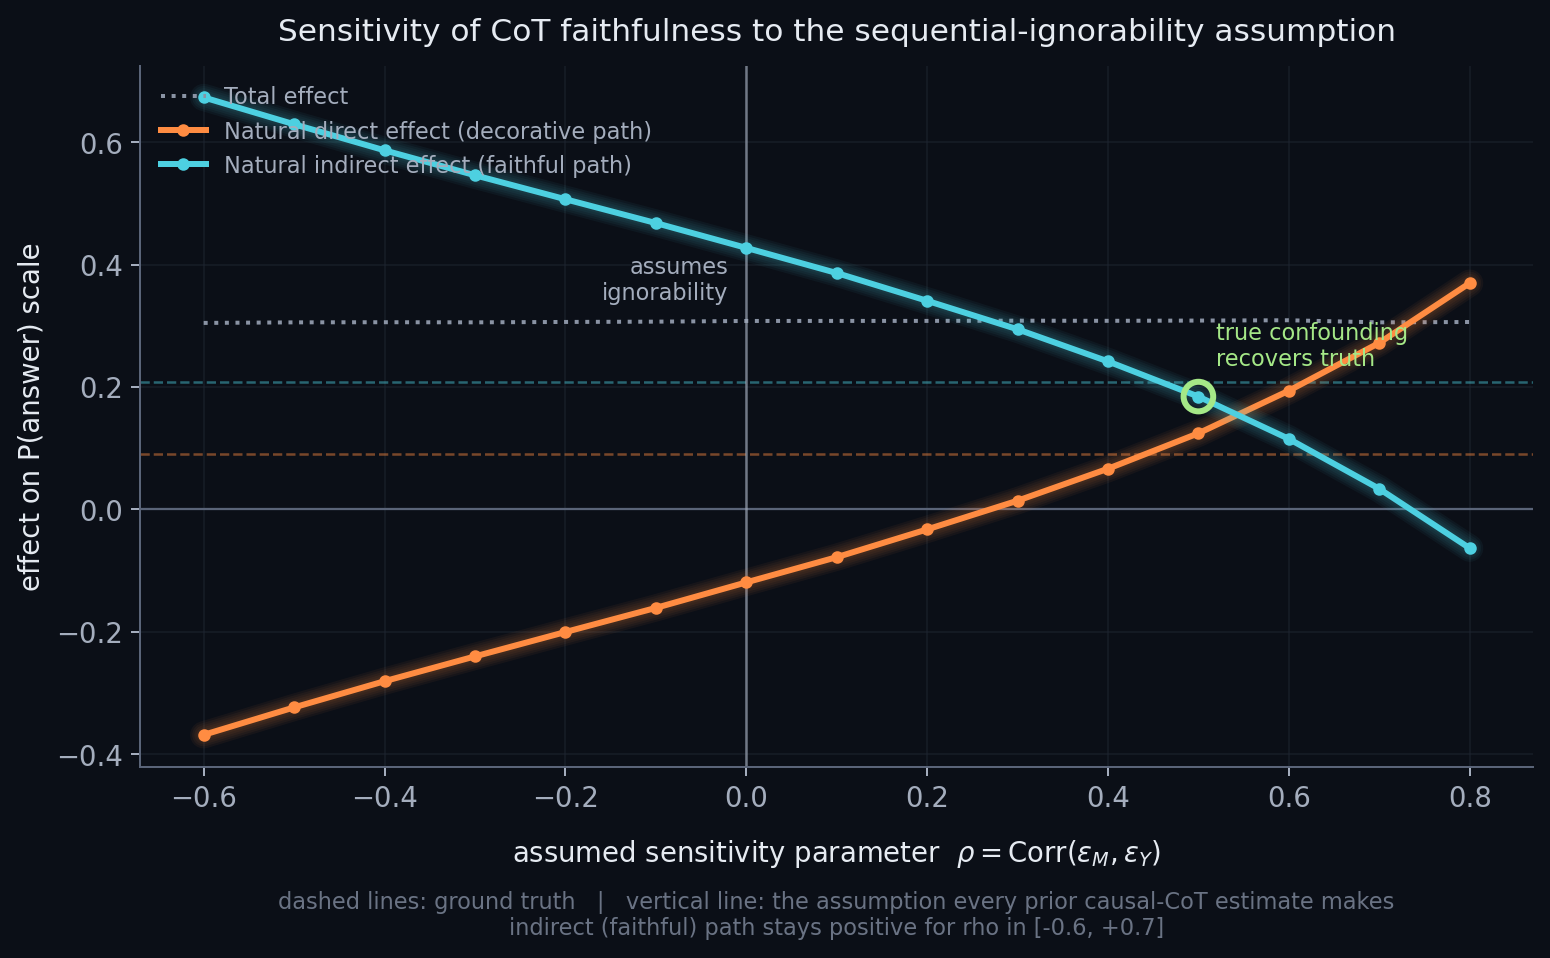
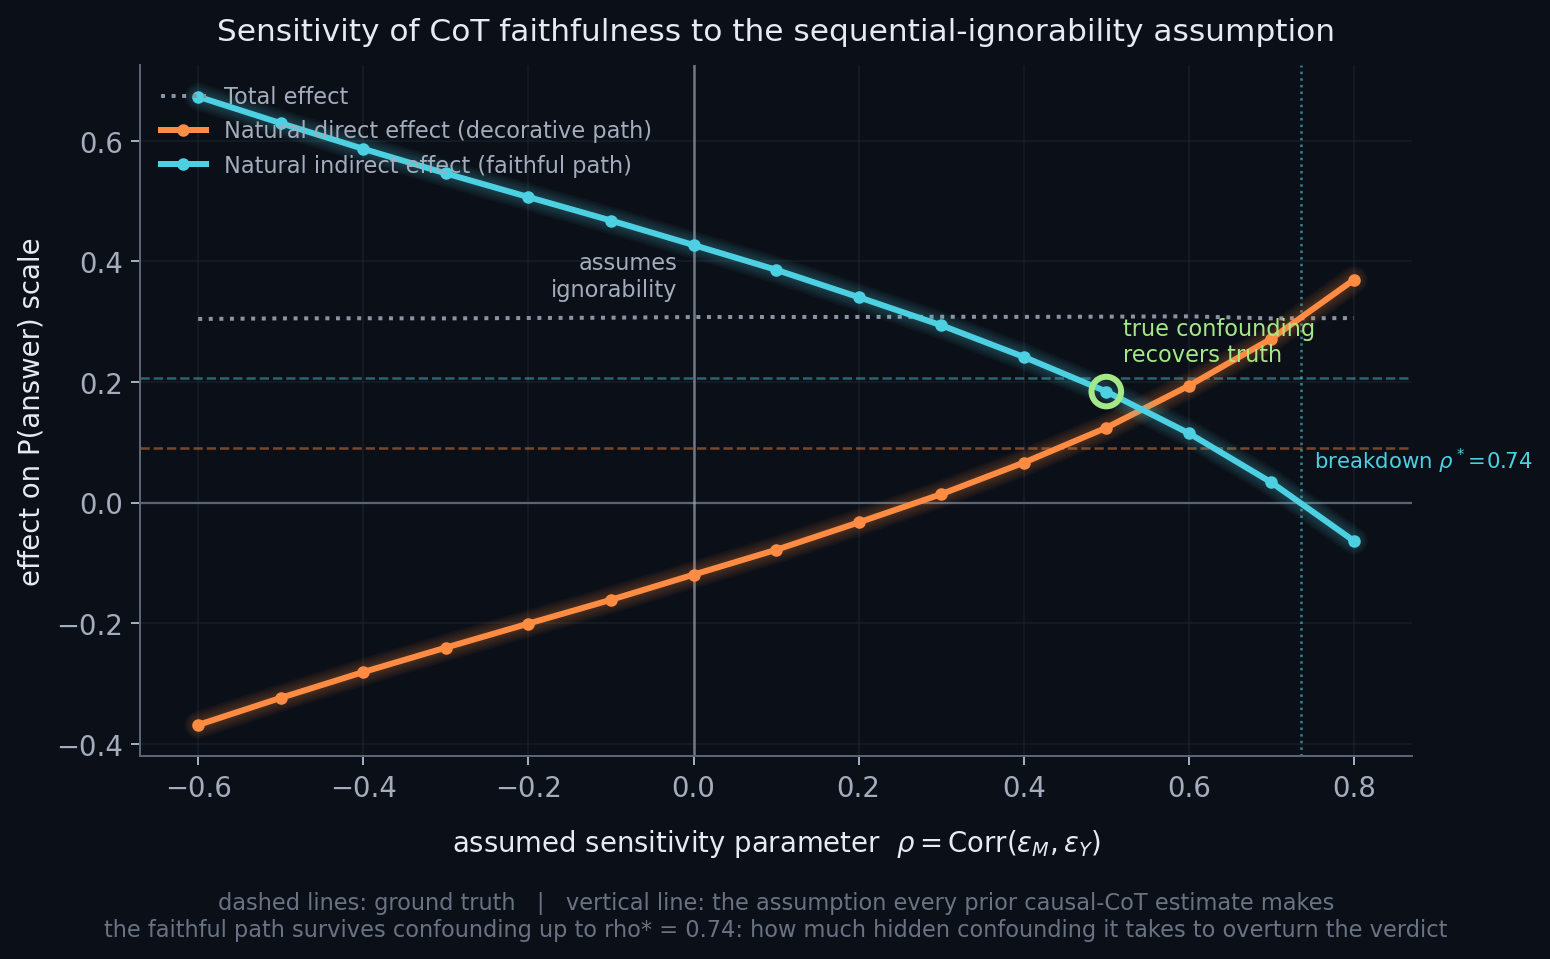
feat(sensitivity): breakdown-frontier rho* (E-value for mediation)
Add breakdown_frontier() + BreakdownFrontier: the smallest residual M-Y
confounding |rho| that flips a natural-effect's sign, found by root-finding the
zero-crossing of the effect over rho (refit probit + natural effects at each
candidate, common random numbers for a smooth deterministic curve). This is the
sensitivity-analysis analogue of VanderWeele's E-value: one comparable scalar a
faithfulness claim can be reported with ("the faithful path survives confounding
up to rho* = X").

- On the synthetic headline config: NIE rho* = 0.74 (verdict survives confounding
  up to that level). The sweep figure now marks rho* at the crossing.
- 3 new tests (invalid key, input validation, finds the positive crossing and the
  effect is ~0 there). Full suite 37 passed --runslow, ruff clean.

This was Council 2's recommended next build: bounds/breakdown are the reporting
language; the real-model positive control (next) is the proof.

diff --git a/src/bayes_cot_faithfulness/sensitivity.py b/src/bayes_cot_faithfulness/sensitivity.py
@@ -42,7 +42,7 @@ from __future__ import annotations
 from dataclasses import dataclass
 
 import numpy as np
-from scipy.optimize import minimize
+from scipy.optimize import brentq, minimize
 from scipy.stats import norm
 
 # Outside this band the latent-Gaussian reparameterisation 1/sqrt(1-rho^2)
@@ -272,6 +272,91 @@ def robustness_interval(
     while hi + 1 < len(vals) and np.sign(vals[hi + 1]) == sign:
         hi += 1
     return float(rhos[lo]), float(rhos[hi])
+
+
+@dataclass(frozen=True)
+class BreakdownFrontier:
+    """How much unmeasured M-Y confounding it takes to overturn an effect's sign.
+
+    This is the sensitivity-analysis analogue of VanderWeele's E-value for a
+    mediation effect: starting from the sequential-ignorability estimate at
+    ``rho = 0``, it reports the residual correlation ``rho`` at which the chosen
+    natural effect (by default the NIE, the faithful path) crosses zero. The
+    headline number is ``robustness``: the smallest ``|rho|`` that flips the
+    verdict. Larger means the conclusion survives more confounding.
+    """
+
+    key: str
+    effect_at_zero: float
+    rho_star_pos: float | None
+    rho_star_neg: float | None
+    robustness: float
+    rho_max: float
+    survives_full_range: bool
+
+
+def breakdown_frontier(
+    X: np.ndarray,
+    M: np.ndarray,
+    Y: np.ndarray,
+    key: str = "nie",
+    n_mc: int = 200_000,
+    rng_seed: int = 0,
+    rho_max: float = 0.95,
+) -> BreakdownFrontier:
+    """Smallest residual confounding ``|rho|`` that overturns the sign of an effect.
+
+    Starting from the sequential-ignorability estimate (``rho = 0``), find the
+    nearest ``rho`` on each side at which the chosen natural effect (``"nde"``,
+    ``"nie"`` or ``"te"``) crosses zero, by refitting the probit model at each
+    candidate ``rho`` and converting to natural effects. Monte Carlo uses a fixed
+    seed so the effect is a deterministic, smooth function of ``rho`` (common random
+    numbers), which keeps the root-find stable.
+
+    The headline output is ``robustness``: the minimum ``|rho|`` that flips the
+    verdict, an E-value-style sensitivity scalar a faithfulness claim can be
+    reported with. ``rho_star_pos`` / ``rho_star_neg`` are the signed crossings (or
+    ``None`` when the sign never flips on that side within the searched range).
+    """
+    if key not in {"nde", "nie", "te"}:
+        raise ValueError("key must be one of 'nde', 'nie', 'te'.")
+    _validate_xmy(X, M, Y)
+    rho_max = min(float(rho_max), _RHO_ABS_MAX - 1e-3)
+
+    def effect_at(rho: float) -> float:
+        alpha, beta, gamma, sigma_m = fit_probit_mediation_map(X, M, Y, float(rho))
+        nde, nie, te = probit_natural_effects(
+            alpha, beta, gamma, sigma_m, float(rho), n_mc=n_mc, rng_seed=rng_seed
+        )
+        return {"nde": nde, "nie": nie, "te": te}[key]
+
+    e0 = effect_at(0.0)
+    sign0 = np.sign(e0)
+
+    def crossing(bound: float) -> float | None:
+        if sign0 == 0:
+            return None
+        if np.sign(effect_at(bound)) == sign0:
+            return None  # sign holds across this side; no breakdown in range
+        lo, hi = (0.0, bound) if bound > 0 else (bound, 0.0)
+        return float(brentq(effect_at, lo, hi, xtol=1e-4, rtol=1e-6, maxiter=100))
+
+    rho_star_pos = crossing(rho_max)
+    rho_star_neg = crossing(-rho_max)
+
+    magnitudes = [abs(r) for r in (rho_star_pos, rho_star_neg) if r is not None]
+    survives_full_range = not magnitudes
+    robustness = min(magnitudes) if magnitudes else rho_max
+
+    return BreakdownFrontier(
+        key=key,
+        effect_at_zero=float(e0),
+        rho_star_pos=rho_star_pos,
+        rho_star_neg=rho_star_neg,
+        robustness=float(robustness),
+        rho_max=float(rho_max),
+        survives_full_range=survives_full_range,
+    )
 
 
 def _validate_xmy(X: np.ndarray, M: np.ndarray, Y: np.ndarray) -> None:

diff --git a/notebooks/04_generate_sensitivity_figure.py b/notebooks/04_generate_sensitivity_figure.py
@@ -24,6 +24,7 @@ from figstyle import PALETTE, glow_line, style_legend, use_house_style
 
 from bayes_cot_faithfulness.sensitivity import (
     ConfoundedCoTConfig,
+    breakdown_frontier,
     fit_probit_mediation_map,
     probit_natural_effects,
     robustness_interval,
@@ -85,6 +86,7 @@ def main() -> None:
     assert ignorability_bias > 0.05, "expected upward bias under ignorability"
 
     band = robustness_interval(sweep, key="nie")
+    bf = breakdown_frontier(X, M, Y, key="nie", n_mc=N_MC, rng_seed=SWEEP_SEED)
 
     # --- figure (dark house style, matches the project site) --------------
     use_house_style()
@@ -113,6 +115,12 @@ def main() -> None:
                 xytext=(RHO_TRUE + 0.02, nie[i_true] + 0.05),
                 fontsize=9, color=PALETTE["green"])
 
+    if bf.rho_star_pos is not None:
+        ax.axvline(bf.rho_star_pos, color=PALETTE["cyan"], lw=1.0, ls=":", alpha=0.6)
+        ax.annotate(rf"breakdown $\rho^*\!=\!{bf.rho_star_pos:.2f}$",
+                    xy=(bf.rho_star_pos, 0.07), xytext=(bf.rho_star_pos + 0.015, 0.07),
+                    fontsize=8.5, color=PALETTE["cyan"], ha="left", va="center")
+
     ax.set_xlabel(r"assumed sensitivity parameter  $\rho = \mathrm{Corr}(\varepsilon_M, \varepsilon_Y)$", labelpad=10)
     ax.set_ylabel("effect on P(answer) scale")
     ax.set_title(
@@ -120,9 +128,12 @@ def main() -> None:
         fontsize=12.5, pad=10,
     )
     subtitle = "dashed lines: ground truth   |   vertical line: the assumption every prior causal-CoT estimate makes"
-    if band is not None:
-        subtitle += f"\nindirect (faithful) path stays positive for rho in [{band[0]:+.1f}, {band[1]:+.1f}]"
-    ax.text(0.5, -0.24, subtitle, transform=ax.transAxes, ha="center", fontsize=9, color=PALETTE["text_3"])
+    if bf.rho_star_pos is not None:
+        subtitle += (
+            f"\nthe faithful path survives confounding up to rho* = {bf.rho_star_pos:.2f}: "
+            "how much hidden confounding it takes to overturn the verdict"
+        )
+    ax.text(0.5, -0.26, subtitle, transform=ax.transAxes, ha="center", fontsize=9, color=PALETTE["text_3"])
     style_legend(ax, loc="upper left", fontsize=9)
 
     out_dir = Path(__file__).resolve().parents[1] / "figures"
@@ -132,6 +143,8 @@ def main() -> None:
     print(f"OK wrote {out_path}")
     print(f"OK all correctness checks passed (recovery err {recovery_err:.4f}, "
           f"ignorability overstates NIE by {ignorability_bias:+.4f})")
+    print(f"OK breakdown frontier rho* = {bf.rho_star_pos:.3f} "
+          f"(faithful path survives confounding up to this level)")
 
 
 if __name__ == "__main__":

diff --git a/tests/test_sensitivity.py b/tests/test_sensitivity.py
@@ -7,6 +7,7 @@ import pytest
 
 from bayes_cot_faithfulness.sensitivity import (
     ConfoundedCoTConfig,
+    breakdown_frontier,
     fit_probit_mediation_map,
     probit_natural_effects,
     robustness_interval,
@@ -88,6 +89,44 @@ def test_robustness_interval_detects_sign_stability() -> None:
     assert band is not None
     lo, hi = band
     assert lo <= 0.0 <= hi
+
+
+def test_breakdown_frontier_invalid_key_raises() -> None:
+    cfg = ConfoundedCoTConfig(n_prompts=300, rng_seed=1)
+    X, M, Y = simulate_confounded_cot(cfg)
+    with pytest.raises(ValueError):
+        breakdown_frontier(X, M, Y, key="bogus")
+
+
+def test_breakdown_frontier_validates_inputs() -> None:
+    X = np.array([0, 1, 2])
+    M = np.array([0.1, 0.2, 0.3])
+    Y = np.array([0, 1, 0])
+    with pytest.raises(ValueError):
+        breakdown_frontier(X, M, Y)
+
+
+def test_breakdown_frontier_finds_positive_rho_star() -> None:
+    """Under positive M-Y confounding the naive NIE is positive; the breakdown
+    frontier is the positive rho at which the faithful path crosses zero, and the
+    effect really is ~0 there."""
+    cfg = ConfoundedCoTConfig(
+        n_prompts=2500, alpha_direct=0.3, beta_mediated=1.0,
+        gamma_xm=0.8, sigma_m=0.5, rho_confound=0.5, rng_seed=7,
+    )
+    X, M, Y = simulate_confounded_cot(cfg)
+    bf = breakdown_frontier(X, M, Y, key="nie", n_mc=80_000, rng_seed=0)
+
+    assert bf.effect_at_zero > 0.0
+    assert bf.rho_star_pos is not None
+    assert 0.4 < bf.rho_star_pos < 0.95
+    assert not bf.survives_full_range
+    assert bf.robustness == pytest.approx(abs(bf.rho_star_pos), abs=1e-6)
+
+    # the effect is genuinely near zero at the reported crossing.
+    a, b, g, s = fit_probit_mediation_map(X, M, Y, bf.rho_star_pos)
+    _, nie_star, _ = probit_natural_effects(a, b, g, s, bf.rho_star_pos, n_mc=80_000, rng_seed=0)
+    assert abs(nie_star) < 0.01
 
 
 @pytest.mark.slow

diff --git a/src/bayes_cot_faithfulness/__init__.py b/src/bayes_cot_faithfulness/__init__.py
@@ -16,8 +16,10 @@ from bayes_cot_faithfulness.mediation import (
     fit_mediation_model,
 )
 from bayes_cot_faithfulness.sensitivity import (
+    BreakdownFrontier,
     ConfoundedCoTConfig,
     SensitivityPoint,
+    breakdown_frontier,
     fit_probit_mediation_map,
     probit_natural_effects,
     robustness_interval,
@@ -29,11 +31,13 @@ from bayes_cot_faithfulness.synthetic import SyntheticCoTConfig, simulate_cot_tr
 __version__ = "0.2.0"
 
 __all__ = [
+    "BreakdownFrontier",
     "ConfoundedCoTConfig",
     "HierarchicalCoTConfig",
     "PosteriorEffects",
     "SensitivityPoint",
     "SyntheticCoTConfig",
+    "breakdown_frontier",
     "extract_parameter_samples",
     "fit_hierarchical_mediation",
     "fit_mediation_model",
